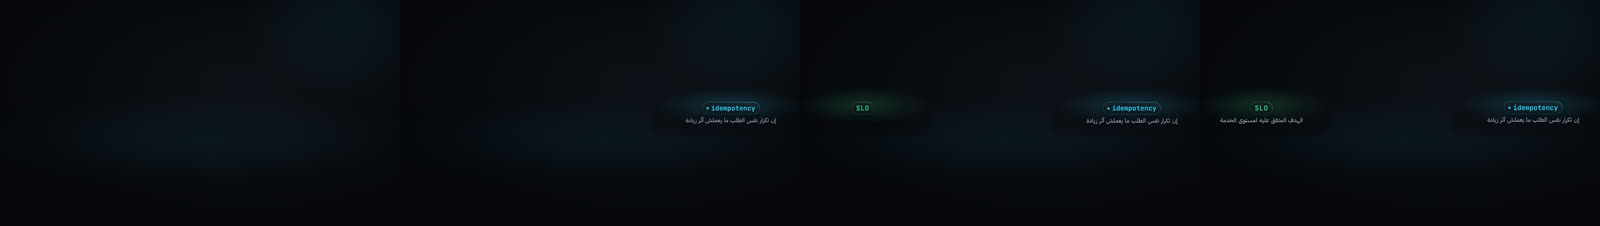
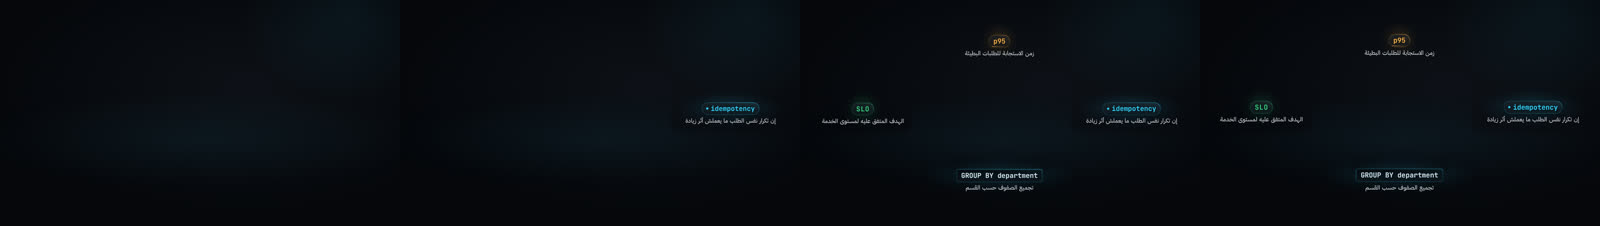
P7 typeui: TermChip round 2 (pool is a closest-side gradient that lands with the wipe, tight text-safe rect to shrink the haze knockout, gloss at ink 0.85, 4 px whole-pixel float for determinism, code and metric kinds in the demo; snap PASS det 0 qa 0, baselines pending-critic; perf lite 0.107 / sta
Claude-Session: https://claude.ai/code/session_01VrU9wxU8GmuhdhWAAHnnQ8

diff --git a/studio/src/components/TermChip/TermChip.tsx b/studio/src/components/TermChip/TermChip.tsx
@@ -3,7 +3,7 @@
 // arrives on the anchor with an LTR `arrive` wipe (rim light first, then the term), the gloss follows 2 film frames later on
 // the `label` preset (RTL fade + rise). Floor: 28 px when spoken (SIZE.labelMin), 18 px otherwise (SIZE.secondaryMin).
 // Light (ADR-003 LK-F, 04 §1.2): the key rim light comes from the upper right (a gradient border that fades to the lower left), the
-// pill is glass (12 px backdrop blur from the standard tier up), sits in a soft emissive pool and breathes by +-1.5 px (deterministic,
+// pill is glass (12 px backdrop blur from the standard tier up), sits in a soft emissive pool and breathes by +-4 px (deterministic,
 // frame-driven) so it reads as a floating plate in depth, not a sticker.
 // Kinds: `term` = leading emissive dot; `acronym` = tracked caps; `code` = darker code stock, square-ish corners, ink text; `metric` = accent underline.
 import React, {useRef} from 'react';
@@ -14,7 +14,7 @@ import {isArabic, lineHeightFor, stackGap, visLen} from '../../type/arabic';
 import {presetFrames, revealProgress, revealStyle} from '../../type/reveal';
 import type {Rect} from '../../type/safe';
 import type {DcComponent, DcProps} from '../../spec/types';
-import {Mx, dirOf, exitT, filmF, justifyFor} from '../_typeui/kit';
+import {Mx, dirOf, exitFade, exitT, filmF, justifyFor} from '../_typeui/kit';
 import type {Props} from './schema';
 
 const PAD = {x: 0.62, y: 0.26}; // pill padding in em of the term size
@@ -32,18 +32,20 @@ export const TermChipView: React.FC<DcProps<Props>> = ({props, ctx}) => {
   const ex = exitT(ctx);
   const pill = revealStyle(t - ctx.at, ctx.fps, 'arrive', dirOf(props.term), ex);
   const rim = revealProgress(t - ctx.at, presetFrames('label', ctx.fps)); // the rim light leads the wipe
+  const land = revealProgress(t - ctx.at, presetFrames('arrive', ctx.fps)) * exitFade(ctx); // the pool lands with the term (review issue 5)
   const gloss = props.gloss_ar ? revealStyle(t - ctx.at - filmF(2, ctx.fps), ctx.fps, 'label', 'rtl', ex) : null;
   const code = props.kind === 'code';
   const k = 0.5 + 0.5 * rim + ctx.mod.glow;
   const settled = revealProgress(t - ctx.at - presetFrames('arrive', ctx.fps), presetFrames('label', ctx.fps));
-  const bob = 1.5 * Math.sin((2 * Math.PI * (t - ctx.at)) / (ctx.fps * 4)) * settled; // px, pure function of the frame
+  const bob = 4 * Math.sin((2 * Math.PI * (t - ctx.at)) / (ctx.fps * 4)) * settled; // px, whole pixels (a fractional offset re-rasterises text differently per render), pure function of the frame
   const stock = code ? `linear-gradient(180deg, ${C.void}${hex(0.92)}, ${C.ground}${hex(0.92)})` : `linear-gradient(180deg, ${C.panel}${hex(0.9)}, ${C.ground}${hex(0.85)})`;
   const rimLight = `linear-gradient(to bottom left, ${color}${hex(0.95 * rim)} 0%, ${color}${hex(0.3 * rim)} 38%, ${color}${hex(0.12 + 0.1 * rim)} 100%)`;
   const termAr = isArabic(props.term);
   return (
     <div style={{position: 'absolute', left: ctx.box.x, top: ctx.box.y, width: ctx.box.w, height: ctx.box.h, display: 'flex', alignItems: 'center', justifyContent: justifyFor(props.slot)}}>
-      <div ref={ref} data-overflow={fit.overflow ? 1 : undefined} style={{position: 'relative', top: bob.toFixed(2) + 'px', display: 'flex', flexDirection: 'column', alignItems: 'center', width: 'max-content', outline: fit.overflow ? `2px dashed ${C.crit}` : undefined}}>
-        <div aria-hidden style={{position: 'absolute', left: '-35%', right: '-35%', top: '-70%', height: '170%', background: `radial-gradient(ellipse at 50% 50%, ${color}${hex(0.2 * rim)} 0%, ${color}${hex(0.06 * rim)} 45%, transparent 72%)`, pointerEvents: 'none'}} />
+      <div ref={ref} data-overflow={fit.overflow ? 1 : undefined} style={{position: 'relative', top: Math.round(bob) + 'px', display: 'flex', flexDirection: 'column', alignItems: 'center', width: 'max-content', outline: fit.overflow ? `2px dashed ${C.crit}` : undefined}}>
+        <div style={{position: 'relative', display: 'flex'}}>
+        <div aria-hidden style={{position: 'absolute', left: '-45%', right: '-45%', top: '-110%', bottom: '-110%', background: `radial-gradient(closest-side ellipse at 50% 50%, ${color}${hex(0.2 * land)} 0%, ${color}${hex(0.1 * land)} 35%, ${color}${hex(0.03 * land)} 70%, ${color}00 100%)`, pointerEvents: 'none'}} />
         <div
           data-dc-part="chip"
           style={{
@@ -74,8 +76,9 @@ export const TermChipView: React.FC<DcProps<Props>> = ({props, ctx}) => {
           </div>
           {props.kind === 'metric' ? <span aria-hidden style={{position: 'absolute', left: '12%', right: '12%', bottom: Math.round(fs * 0.1), height: 2, borderRadius: 1, background: `linear-gradient(90deg, ${color}${hex(0.9 * rim)}, ${color}00)`}} /> : null}
         </div>
+        </div>
         {props.gloss_ar && gloss ? (
-          <div style={{marginTop: Math.round(fs * 0.3) + stackGap({text: props.term, size: fs}, {text: props.gloss_ar, size: gs}), fontSize: gs, lineHeight: lineHeightFor(props.gloss_ar), color: C.ink2, textShadow: halo, whiteSpace: 'nowrap', ...gloss.style}}>
+          <div style={{marginTop: Math.round(fs * 0.3) + stackGap({text: props.term, size: fs}, {text: props.gloss_ar, size: gs}), fontSize: gs, lineHeight: lineHeightFor(props.gloss_ar), color: `${C.ink}${hex(0.85)}`, textShadow: halo, whiteSpace: 'nowrap', ...gloss.style}}>
             <Mx id={`${ctx.id}:gloss`} text={props.gloss_ar} size={gs} weight={FONT.label.weight} />
           </div>
         ) : null}
@@ -86,9 +89,11 @@ export const TermChipView: React.FC<DcProps<Props>> = ({props, ctx}) => {
 
 /** Text-safe rect: the pill (+ gloss) estimate at its slot position. */
 const textRect = (p: Props, box: Rect): Rect => {
+  // tight estimate (measured: mono term ~0.6 em/char, Arabic gloss ~0.45 em/char) so the haze knockout stays close to the pill
   const fs = SIZE.label;
-  const w = Math.min(box.w, Math.max(fs * 0.62 * (visLen(p.term) + 3), p.gloss_ar ? SIZE.labelMin * 0.55 * visLen(p.gloss_ar) : 0));
-  const h = Math.min(box.h, fs * 1.9 + (p.gloss_ar ? SIZE.labelMin * 2 : 0));
+  const pillW = fs * (0.6 * visLen(p.term) + 1.6 + (p.kind === 'term' ? 0.7 : 0));
+  const w = Math.min(box.w, Math.max(pillW, p.gloss_ar ? SIZE.labelMin * 0.45 * visLen(p.gloss_ar) : 0));
+  const h = Math.min(box.h, fs * 1.8 + (p.gloss_ar ? SIZE.labelMin * 1.9 : 0));
   const x = p.slot === 'start' ? box.x + box.w - w : p.slot === 'end' ? box.x : box.x + (box.w - w) / 2;
   return {x, y: box.y + (box.h - h) / 2, w, h};
 };

diff --git a/studio/src/demos/type-ui.tsx b/studio/src/demos/type-ui.tsx
@@ -80,12 +80,15 @@ const demos: DemoModule = {
       },
     },
     {
-      // glossary first-mention glosses (corpus/canon/glossary.json): a term chip and an acronym chip
+      // glossary first-mention glosses (corpus/canon/glossary.json): term, acronym, plus a code chip (GROUP BY department, canon
+      // SQL) and a metric chip (p95, canon incident copy); no numbers are invented
       name: 'TermChip',
-      frames: 72,
+      frames: 84,
       words: [
-        [W('TermChip', 1), 8, 26],
-        [W('TermChip', 2), 36, 50],
+        [W('TermChip', 1), 8, 18],
+        [W('TermChip', 2), 18, 28],
+        [W('TermChip', 3), 28, 38],
+        [W('TermChip', 4), 38, 48],
       ],
       shot: {
         fx_tier: 'standard',
@@ -93,6 +96,8 @@ const demos: DemoModule = {
         layers: [
           {component: 'TermChip', props: {id: 'idem', term: 'idempotency', gloss_ar: 'إن تكرار نفس الطلب ما يعملش أثر زيادة', kind: 'term', slot: 'start'}, at: {word: W('TermChip', 1), lead_frames: 2}},
           {component: 'TermChip', props: {id: 'slo', term: 'SLO', gloss_ar: 'الهدف المتفق عليه لمستوى الخدمة', kind: 'acronym', color: 'ok', slot: 'end'}, at: {word: W('TermChip', 2), lead_frames: 2}},
+          {component: 'TermChip', props: {id: 'sql', term: 'GROUP BY department', gloss_ar: 'تجميع الصفوف حسب القسم', kind: 'code', color: 'signal', slot: 'lower-third'}, at: {word: W('TermChip', 3), lead_frames: 2}},
+          {component: 'TermChip', props: {id: 'p95', term: 'p95', gloss_ar: 'زمن الاستجابة للطلبات البطيئة', kind: 'metric', color: 'warn', slot: 'upper-third'}, at: {word: W('TermChip', 4), lead_frames: 2}},
         ],
       },
     },
